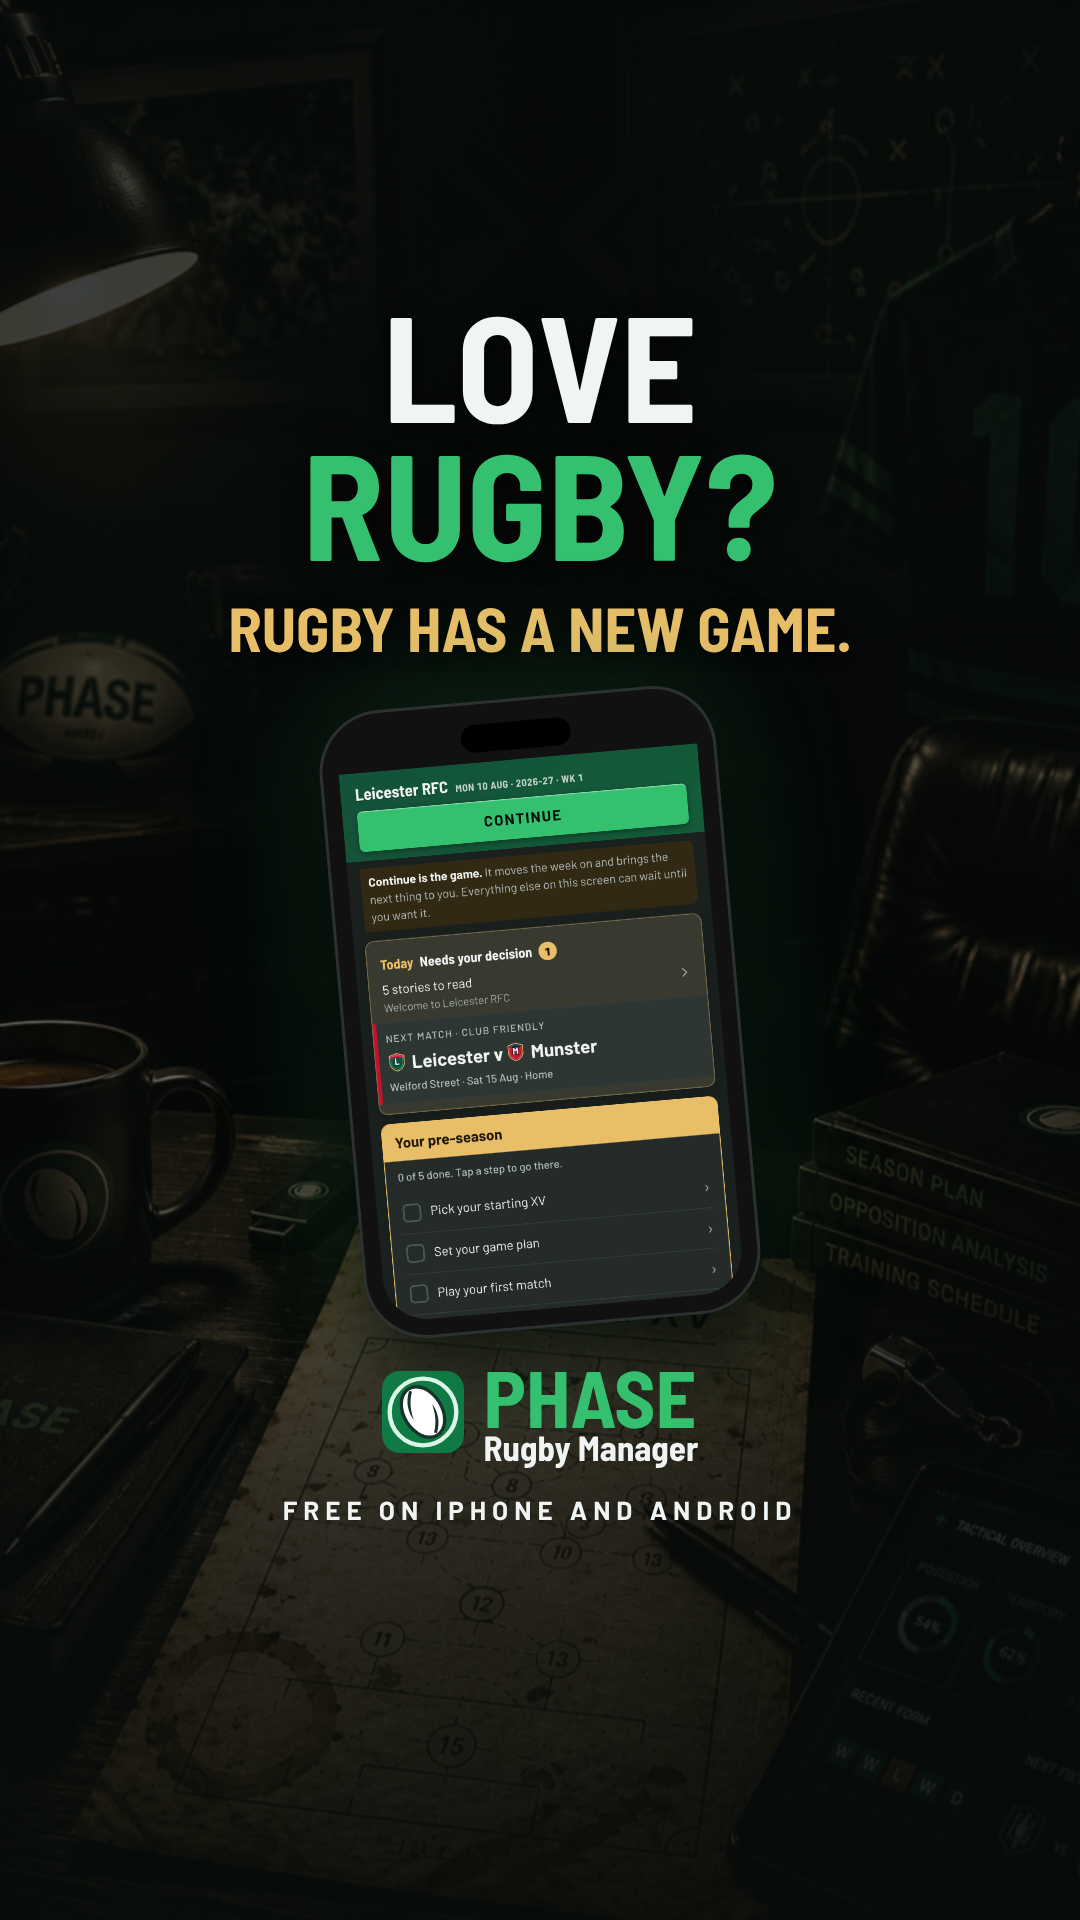
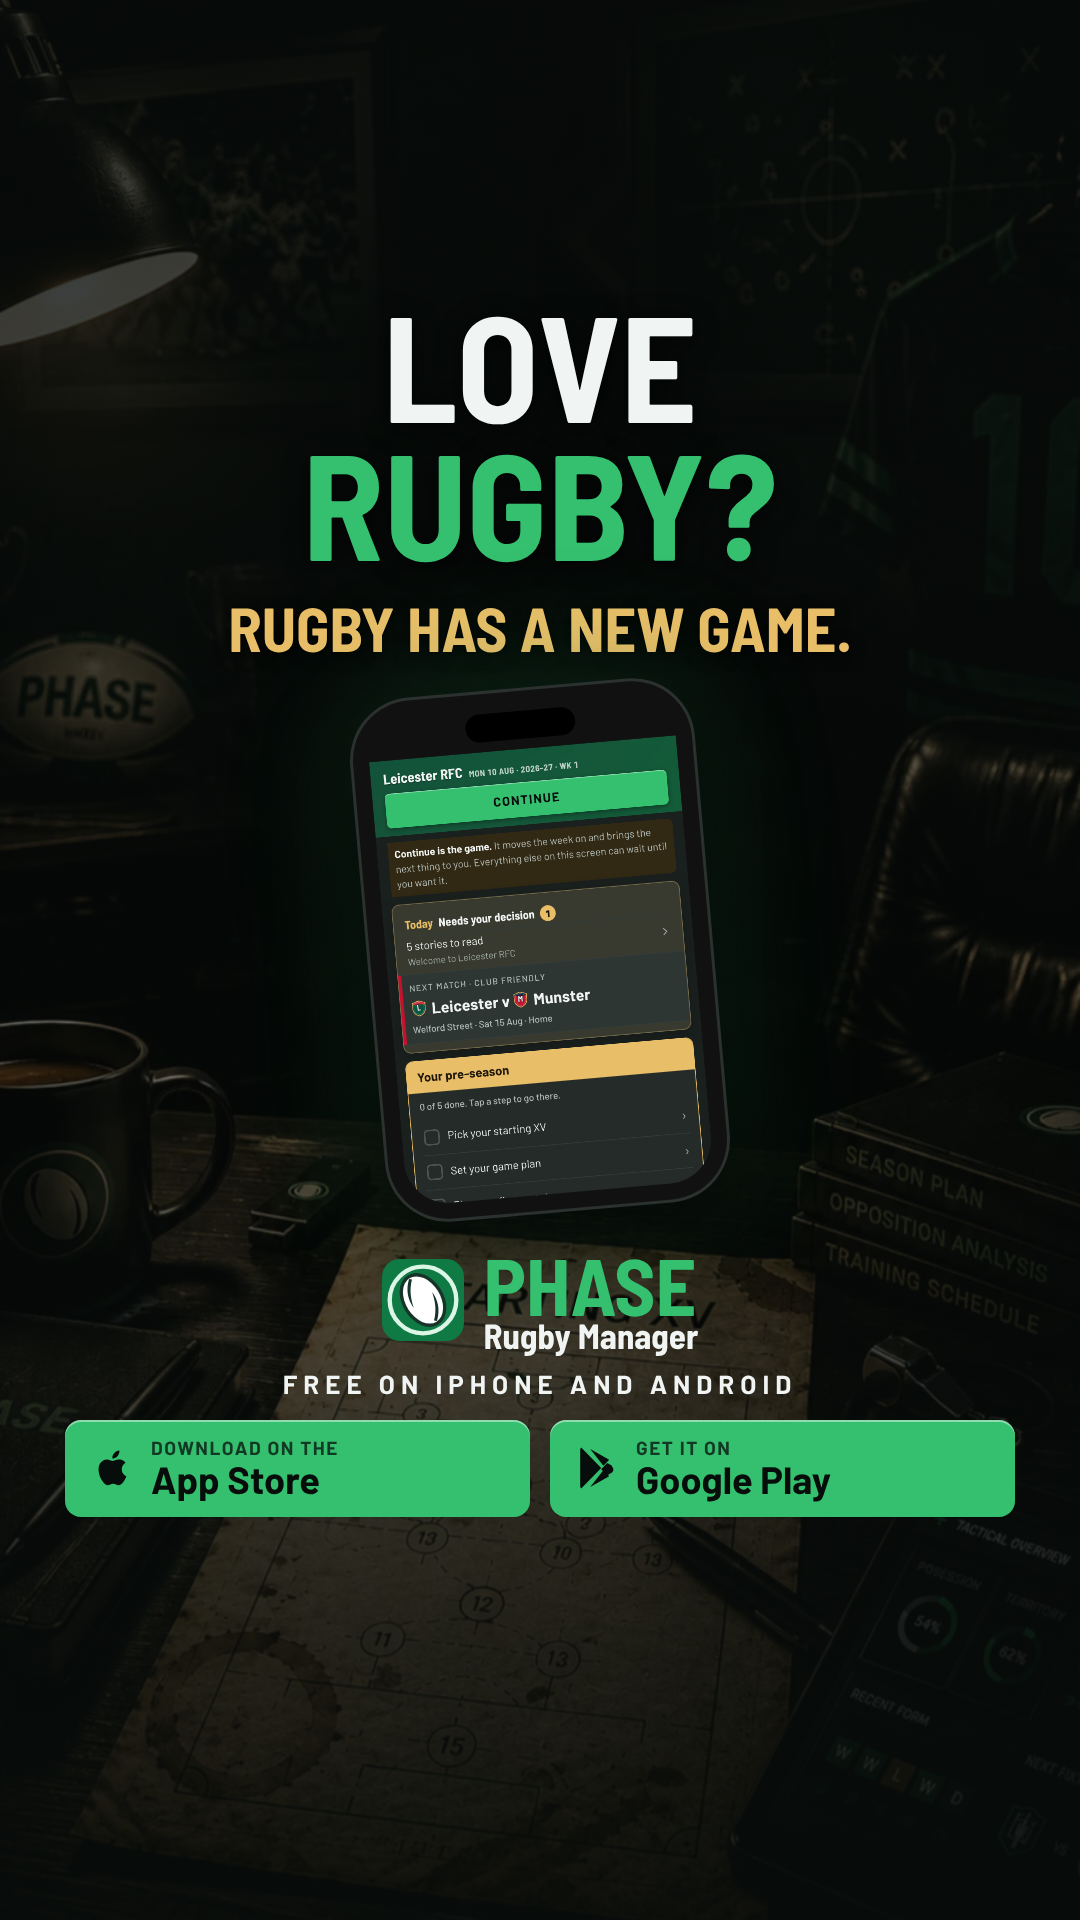
Story ad: add App Store and Google Play buttons inside the safe band
Claude-Session: https://claude.ai/code/session_01SkkDyBEzPXwLzKDjPnHoVw

Changed region(s): [[0.0611, 0.375, 0.9472, 0.8125]]

diff --git a/art/social/love-rugby-story/story.html b/art/social/love-rugby-story/story.html
@@ -11,19 +11,24 @@ html,body{width:1080px;height:1920px;overflow:hidden;background:var(--canvas)}
 h1{top:294px;font-family:'BSC';font-size:150px;line-height:.92;text-shadow:0 4px 24px rgba(0,0,0,.7)}
 h1 em{font-style:normal;color:var(--green)}
 .sub{top:596px;font-family:'BSC';font-size:62px;line-height:1;color:var(--gold);text-shadow:0 3px 16px rgba(0,0,0,.8)}
-.phone{position:absolute;left:50%;top:700px;width:392px;height:624px;margin-left:-196px;transform:rotate(-5deg);
+.phone{position:absolute;left:50%;top:690px;width:340px;height:520px;margin-left:-170px;transform:rotate(-5deg);
  border-radius:60px;background:#111;padding:58px 16px 16px;overflow:hidden;
  box-shadow:0 0 0 3px #2a312e,0 40px 90px rgba(0,0,0,.75),0 0 140px rgba(52,192,111,.22)}
 .phone::before{content:"";position:absolute;top:20px;left:50%;width:110px;height:28px;margin-left:-55px;border-radius:14px;background:#000}
 .screen{width:100%;height:100%;border-radius:0 0 44px 44px;overflow:hidden}
 .screen img{display:block;width:100%}
-.brand{top:1360px;display:flex;justify-content:center}
+.brand{top:1248px;display:flex;justify-content:center}
 .brand .row{display:inline-flex;align-items:center;gap:20px}
 .brand img{width:82px;height:82px}
 .brand span{text-align:left;font-family:'BSC';line-height:.9}
 .brand b{display:block;font-size:80px;color:var(--green)}
 .brand i{display:block;font-style:normal;font-size:35px}
-.free{top:1494px;font-size:26px;letter-spacing:6px;text-transform:uppercase;color:var(--text)}
+.free{top:1368px;font-size:26px;letter-spacing:6px;text-transform:uppercase;color:var(--text)}
+.stores{top:1420px;display:flex;gap:20px;justify-content:center}
+.store{display:flex;align-items:center;gap:14px;flex:1;padding:16px 24px;border-radius:16px;background:var(--green);color:#070d0a;text-align:left;box-shadow:inset 0 2px rgba(255,255,255,.45)}
+.store svg{width:48px;height:48px;flex:none}
+.store .l1{display:block;font-size:19px;letter-spacing:1.5px;text-transform:uppercase;opacity:.75}
+.store .l2{display:block;font-size:38px;line-height:1.1}
 /* safe-zone overlay, shown only with ?overlay */
 .ov{display:none;position:absolute;inset:0;pointer-events:none;font:700 30px 'Barlow',sans-serif;color:#fff}
 .overlay .ov{display:block}
@@ -39,5 +44,9 @@ h1 em{font-style:normal;color:var(--green)}
 <div class="phone" id="phone"><div class="screen"><img src="screen.png" alt=""></div></div>
 <div class="k brand" id="brand"><div class="row"><img src="../../../landing/img/icon.svg" alt=""><span><b>PHASE</b><i>Rugby Manager</i></span></div></div>
 <p class="k free" id="free">Free on iPhone and Android</p>
+<div class="k stores" id="stores">
+  <div class="store"><svg viewBox="0 0 24 24" fill="currentColor"><path d="M16.4 12.7c0-2.2 1.8-3.3 1.9-3.3-1-1.5-2.6-1.7-3.2-1.7-1.4-.1-2.7.8-3.3.8-.7 0-1.7-.8-2.8-.8-1.5 0-2.8.8-3.5 2.1-1.5 2.6-.4 6.5 1.1 8.6.7 1 1.6 2.2 2.7 2.2 1.1 0 1.5-.7 2.8-.7 1.3 0 1.6.7 2.8.7 1.2 0 1.9-1.1 2.6-2.1.8-1.2 1.2-2.4 1.2-2.4s-2.3-.9-2.3-3.4ZM14.3 6c.6-.7 1-1.7.9-2.7-.9 0-2 .6-2.6 1.3-.6.6-1.1 1.7-.9 2.6 1 .1 2-.5 2.6-1.2Z"/></svg><span><span class="l1">Download on the</span><span class="l2">App Store</span></span></div>
+  <div class="store"><svg viewBox="0 0 24 24" fill="currentColor"><path d="M3.6 1.8a1.4 1.4 0 0 0-.5 1.1v18.2c0 .45.18.85.5 1.1l10-10.2-10-10.2Zm11.1 9.1 2.9-3-9.5-5.4 6.6 8.4Zm0 2.2-6.6 8.4 9.5-5.4-2.9-3Zm4.3-2.2-2.4-1.4-3 3.1 3 3.1 2.4-1.4c.9-.5.9-2.4 0-2.9v-.5Z"/></svg><span><span class="l1">Get it on</span><span class="l2">Google Play</span></span></div>
+</div>
 <div class="ov"><div class="z t">TOP 270 PX: INSTAGRAM UI</div><div class="z b">BOTTOM 380 PX: INSTAGRAM UI AND LINK BUTTON</div><div class="m ml"></div><div class="m mr"></div><div class="line" style="top:270px"></div><div class="line" style="top:1540px"></div></div>
 </div><script>if(location.search.includes('overlay'))document.getElementById('post').classList.add('overlay')</script></body></html>

diff --git a/art/social/love-rugby-story/README.md b/art/social/love-rugby-story/README.md
@@ -5,5 +5,5 @@ same image with Instagram's covered areas marked: the top 270 px, the bottom 380
 and the 65 px side margins.
 
 `node art/social/love-rugby-story/render.cjs` re-renders both from `story.html` and
-prints whether each element (headline, subline, phone, logo, free line) sits inside
+prints whether each element (headline, subline, phone, logo, free line, store buttons) sits inside
 the safe band. `screen.png` is a real capture of the game's home screen.
